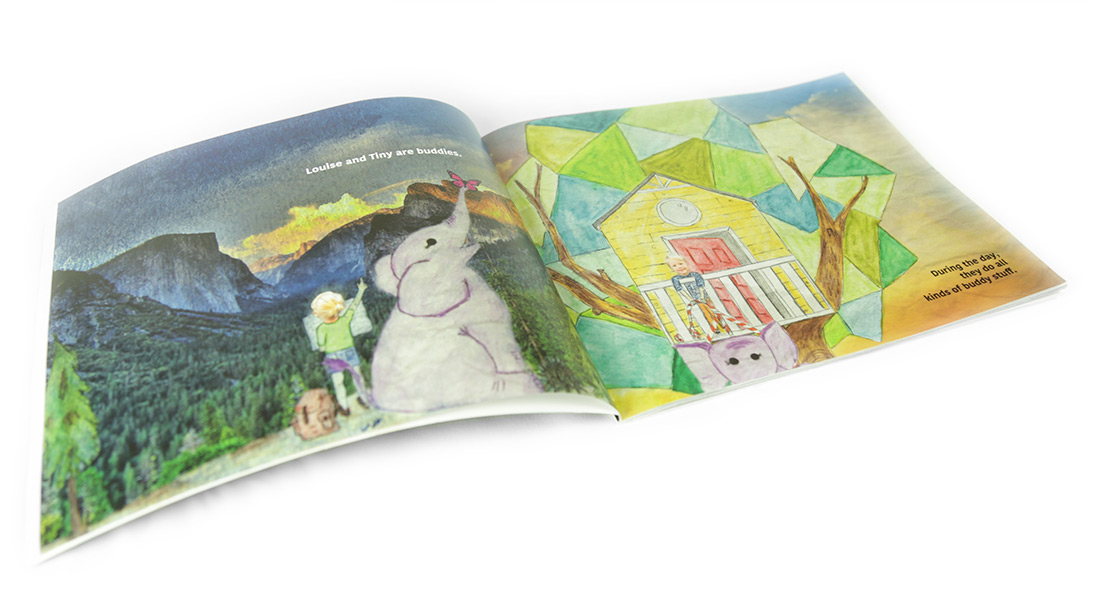
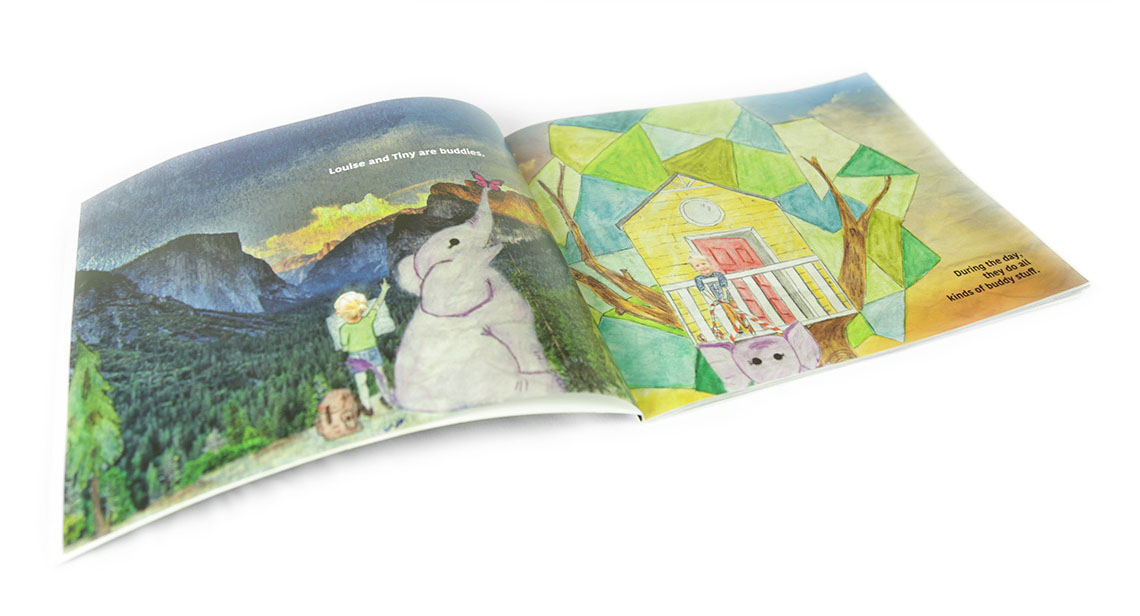
added another image and the carousel

diff --git a/index.html b/index.html
@@ -40,12 +40,35 @@
             </div>
             <div class="col-xl-8 col-sm-10 text-center">
                 <div class="align-middle">
-                    <img src="./images/openbook.jpg" width=100% alt="">
+                    <div id="carouselExampleIndicators" class="carousel slide" data-ride="carousel">
+                      <div class="carousel-inner">
+                        <div class="carousel-item active">
+                          <img class="d-block w-100" src="./images/openbook.jpg" alt="First slide">
+                        </div>
+                        <div class="carousel-item">
+                            <img class="d-block w-100" src="./images/bookcover.jpg" alt="Third slide">
+                        </div>
+                        <div class="carousel-item">
+                          <img class="d-block w-100" src="./images/openbook_angle.jpg" alt="Second slide">
+                        </div>
+
+                      </div>
+                      <a class="carousel-control-prev" href="#carouselExampleIndicators" role="button" data-slide="prev">
+                        <span class="carousel-control-prev-icon" aria-hidden="true"></span>
+                        <span class="sr-only">Previous</span>
+                      </a>
+                      <a class="carousel-control-next" href="#carouselExampleIndicators" role="button" data-slide="next">
+                        <span class="carousel-control-next-icon" aria-hidden="true"></span>
+                        <span class="sr-only">Next</span>
+                      </a>
+                    </div>
                 </div>
             </div>
             <div class="col-xl-2 col-sm-1">
             </div>
         </div>
+
+
 
         <div class="row outer-row">
             <div class="col-xl-2 col-sm-1">
@@ -87,7 +110,7 @@
                        </br>
                        <p>Our first book “__________’s Dream Rescue Adventure” depicts the hero going on an adventure to save their stuffed elephant named Tiny.</p>
 
-                       <img src="./images/openbook_angle.jpg" width=100% alt="">
+                       <!-- <img src="./images/openbook_angle.jpg" width=100% alt=""> -->
 
                        <p>It is ideal for ages 2-6!<p>
                     </div>
@@ -236,5 +259,12 @@
         <script src="https://code.jquery.com/jquery-3.2.1.slim.min.js" integrity="sha384-KJ3o2DKtIkvYIK3UENzmM7KCkRr/rE9/Qpg6aAZGJwFDMVNA/GpGFF93hXpG5KkN" crossorigin="anonymous"></script>
         <script src="https://cdnjs.cloudflare.com/ajax/libs/popper.js/1.12.9/umd/popper.min.js" integrity="sha384-ApNbgh9B+Y1QKtv3Rn7W3mgPxhU9K/ScQsAP7hUibX39j7fakFPskvXusvfa0b4Q" crossorigin="anonymous"></script>
         <script src="https://maxcdn.bootstrapcdn.com/bootstrap/4.0.0/js/bootstrap.min.js" integrity="sha384-JZR6Spejh4U02d8jOt6vLEHfe/JQGiRRSQQxSfFWpi1MquVdAyjUar5+76PVCmYl" crossorigin="anonymous"></script>
+
+        <script type="text/javascript">$('#slideshow').carousel({
+                interval: 3000
+        });
+
+        </script>
+
     </body>
 </html>
